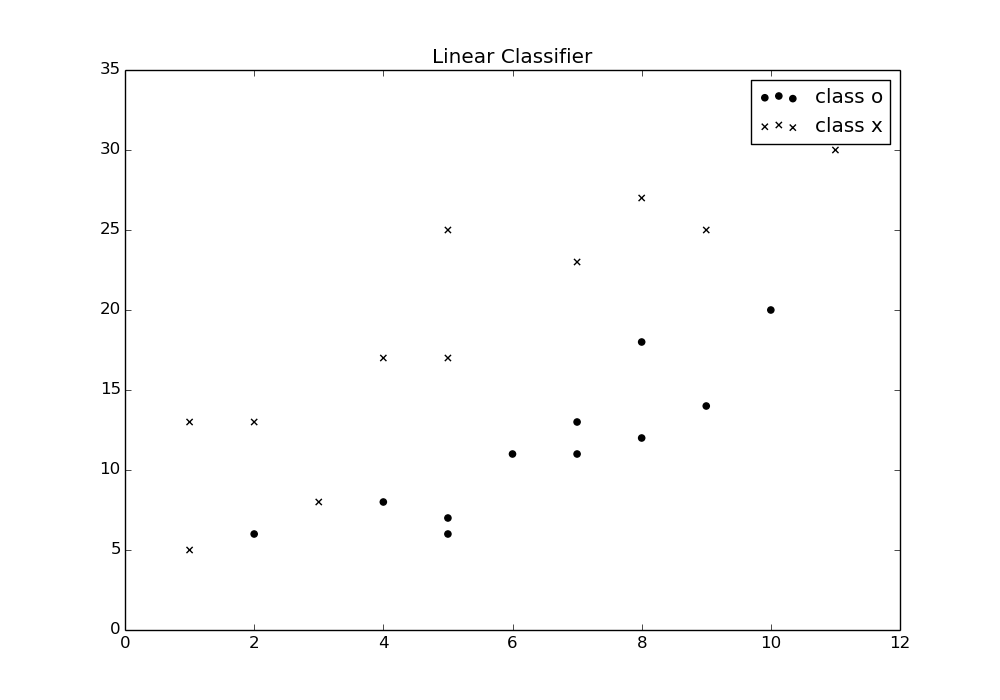
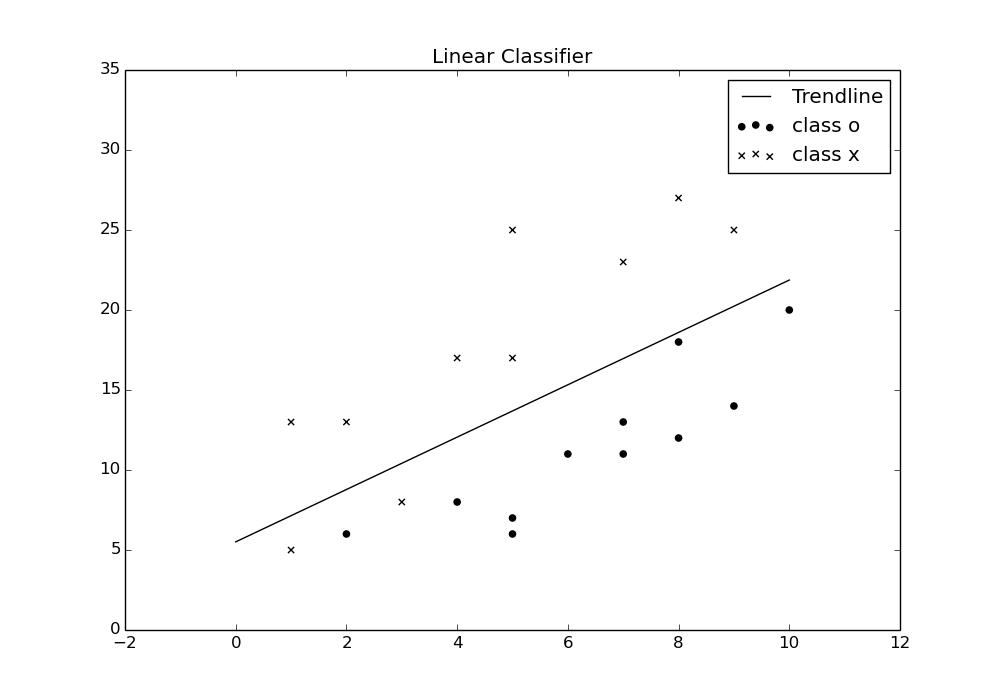
classifier

diff --git a/supervised_learning/0x04-classification/1-linear_classification.py b/supervised_learning/0x04-classification/1-linear_classification.py
@@ -5,11 +5,19 @@ import numpy as np
 import matplotlib
 matplotlib.use('Agg')
 import matplotlib.pyplot as plt
+from sklearn.linear_model import LinearRegression
 
 df = pd.read_csv('linear_classifier.csv')
 print(df.head())
 
+#fit a linear regression model
+model = LinearRegression()
+model.fit(df.x.values.reshape((-1, 1)), df.y.values.reshape((-1, 1)))
+print("y = {}x + {}".format(model.coef_[0][0], model.intercept_[0]))
+#plot the trendline
+trend = model.predict(np.linspace(0, 10).reshape((-1, 1)))
 plt.figure(figsize=(10,7))
+plt.plot(np.linspace(0, 10), trend, c='k', label='Trendline')
 for label, label_class in df.groupby('labels'):
     plt.scatter(label_class.values[:, 0], label_class.values[:, 1],
                 label="class {}".format(label), marker=label, c='k')
